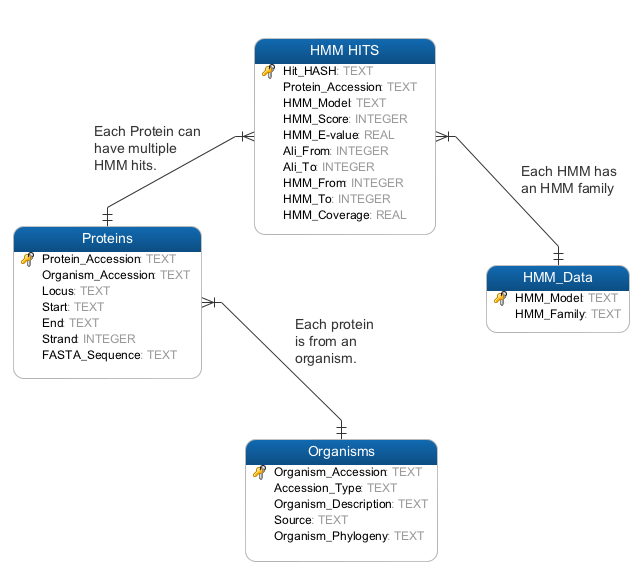
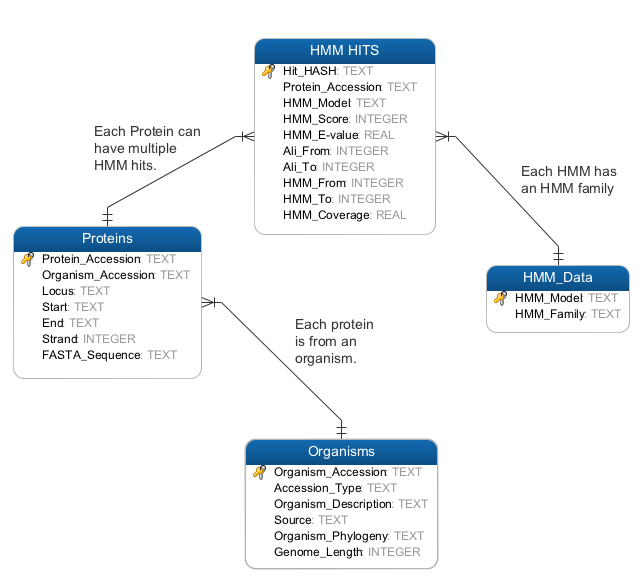
Moving to add new column to organism table.

diff --git a/OrganismLengthGenbank.py b/OrganismLengthGenbank.py
@@ -1,0 +1,74 @@
+#!/usr/bin/env python 
+# Created by: Lee Bergstrand 
+# Descript: A program that extracts the protiens annotations from a genbank file and as well as some 
+#			information about the organism in the file. Stores the protein annotations as a Fasta. 
+#			Appends a csv file with the organism info.
+#
+# Requirements: - This script requires the Biopython module: http://biopython.org/wiki/Download
+#
+# Usage: GenbankToFASTAandOrganismTable.py <organism.gbk> 
+# Example: GenbankToFASTAandOrganismTable.py ecoli.gbk
+#----------------------------------------------------------------------------------------
+#===========================================================================================================
+#Imports & Setup:
+	
+import sys
+from Bio import SeqIO
+from os import path
+
+#===========================================================================================================
+# Functions:
+
+# 1: Checks if in proper number of arguments are passed gives instructions on proper use.
+def argsCheck(numArgs):
+	if len(sys.argv) < numArgs or len(sys.argv) > numArgs:
+		print "Sequence Downloader"
+		print "By Lee Bergstrand\n"
+		print "Usage: " + sys.argv[0] + " <organism.gbk>"
+		print "Examples: " + sys.argv[0] + " ecoli.gbk"
+		sys.exit(1) # Aborts program. (exit(1) indicates that an error occurred)
+#------------------------------------------------------------------------------------------------------------
+# Main program code:
+
+# House keeping...
+argsCheck(2) # Checks if the number of arguments are correct.
+
+# Stores file one for input checking.
+print ">> Starting up..."
+OrganismFile = sys.argv[1]
+OrganismID = path.split(OrganismFile)[1].rstrip(".gbk")
+
+# File extension checks
+print ">> Performing file extention checks..."
+if not OrganismFile.endswith(".gbk"):
+	print "[Warning] " + OrganismFile + " may not be a genbank file!"
+
+# Read in genbank file as a sequence record object.
+try:
+	print ">> Opening " + OrganismFile
+	handle = open(OrganismFile, "rU")
+	try:
+		record = SeqIO.read(handle, "genbank")
+	except ValueError as error:
+		print "Error has occured while parsing " + OrganismFile + "!"
+		print error
+		print error.traceback
+		sys.exit(1)
+	handle.close()
+except IOError:
+	print "Failed to open " + OrganismFile
+	sys.exit(1)
+
+print ">> Extracting Organism Info..."
+OrganismLength = len(record.seq)
+OrganismString = OrganismID + "," + str(OrganismLength) + "\n"
+
+try:
+	print ">> Writing to organism info to CSV file..."
+	FASTAWriter = open("OrganismLengthDB.csv", "a")
+	FASTAWriter.write(OrganismString)
+	FASTAWriter.close()
+except IOError:
+	print "Failed to open " + CSVFile
+	sys.exit(1)
+print ">> Done"

diff --git a/GenbankToFASTAandOrganismTable.py b/GenbankToFASTAandOrganismTable.py
@@ -98,6 +98,7 @@ except IOError:
 	
 print ">> Extracting Protein Annotations..."
 FASTA = getProtienAnnotationFasta(record) # Creates a dictionary containing all protein annotations in the gbk file.
+OrganismGenomeLength = len(record.seq)
 
 print ">> Extracting Organism Info..."
 description = record.description.replace(",", "")
@@ -112,7 +113,7 @@ else:
 	accessionType = 'Unknown'
 source = record.annotations['source'].replace(",", "")
 taxonomy = "_".join(record.annotations['taxonomy'])
-OrganismString = OrganismID + "," + accessionType + "," + description + "," + source + "," + taxonomy + "\n"
+OrganismString = OrganismID + "," + accessionType + "," + description + "," + source + "," + taxonomy + "," + OrganismGenomeLength + "\n"
 
 # Write annotations to FASTA file.
 try:
